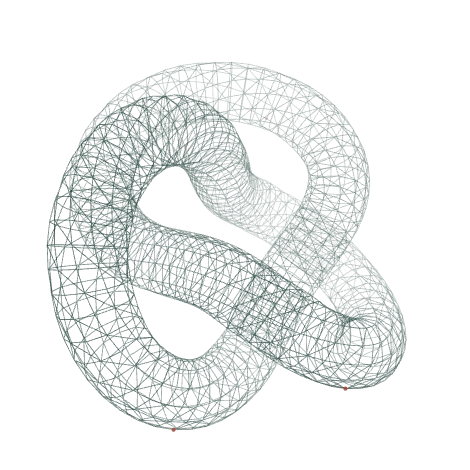
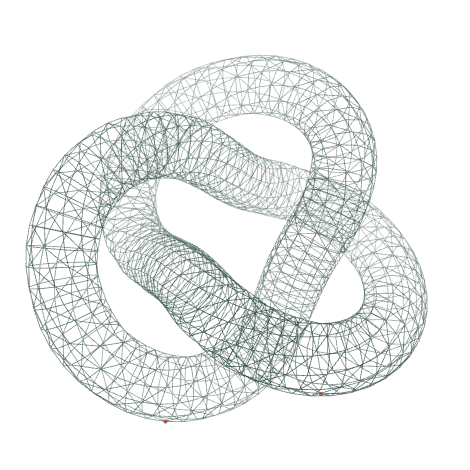
Clarify English-first navigation and balance hero motion

diff --git a/src/scripts/hero-scene.ts b/src/scripts/hero-scene.ts
@@ -67,7 +67,7 @@ function initScene(scene: HTMLElement) {
   let size = 0;
   let ink = '';
   let accent = '';
-  let angle = 0.36;
+  let angle = 0.15;
   let tilt = 0;
   let targetTilting = 0;
   let targetTurning = 0;
@@ -77,21 +77,21 @@ function initScene(scene: HTMLElement) {
 
   function draw() {
     if (!ctx || size === 0) return;
-    const sx = Math.sin(0.67 + tilt);
-    const cx = Math.cos(0.67 + tilt);
+    const sx = Math.sin(0.42 + tilt);
+    const cx = Math.cos(0.42 + tilt);
     const sy = Math.sin(angle + turn);
     const cy = Math.cos(angle + turn);
     const roll = 0.3;
     const cr = Math.cos(roll);
     const sr = Math.sin(roll);
-    const scale = size * 0.194;
+    const scale = size * 0.19;
 
     for (let i = 0; i < points.length; i++) {
       const [x, y, z] = points[i];
-      const a = x * cy + z * sy;
-      const b = z * cy - x * sy;
-      const c = y * cx - b * sx;
-      const d = y * sx + b * cx;
+      const a = x * cy - y * sy;
+      const b = x * sy + y * cy;
+      const c = b * cx - z * sx;
+      const d = b * sx + z * cx;
       const perspective = 7 / (7 - d);
       const point = projected[i];
       point[0] = size / 2 + (a * cr - c * sr) * scale * perspective;
@@ -115,7 +115,7 @@ function initScene(scene: HTMLElement) {
         ctx.moveTo(projected[from][0], projected[from][1]);
         ctx.lineTo(projected[to][0], projected[to][1]);
       }
-      ctx.globalAlpha = 0.12 + 0.67 * (i / (layers - 1)) ** 1.6;
+      ctx.globalAlpha = 0.17 + 0.73 * (i / (layers - 1)) ** 1.6;
       ctx.stroke();
     }
 
@@ -145,7 +145,7 @@ function initScene(scene: HTMLElement) {
 
   function animate(time: number) {
     if (time - lastDraw >= 32) {
-      angle += Math.min(time - lastDraw, 50) * 0.00032;
+      angle += Math.min(time - lastDraw, 50) * 0.00016;
       tilt += (targetTilting - tilt) * 0.085;
       turn += (targetTurning - turn) * 0.085;
       lastDraw = time;
@@ -180,8 +180,8 @@ function initScene(scene: HTMLElement) {
   canvas.addEventListener('pointermove', (event) => {
     if (paused || event.pointerType !== 'mouse') return;
     const bounds = canvas.getBoundingClientRect();
-    targetTilting = 0.55 * (event.clientY - bounds.top - bounds.height / 2) / bounds.height;
-    targetTurning = 0.8 * (event.clientX - bounds.left - bounds.width / 2) / bounds.width;
+    targetTilting = 0.3 * (event.clientY - bounds.top - bounds.height / 2) / bounds.height;
+    targetTurning = 0.45 * (event.clientX - bounds.left - bounds.width / 2) / bounds.width;
   });
   canvas.addEventListener('pointerleave', () => {
     targetTilting = 0;

diff --git a/src/styles/showcase.css b/src/styles/showcase.css
@@ -2,7 +2,7 @@
 :root {
   --header-height: 80px;
   --stage-paper: #efece2;
-  --stage-grid: rgb(22 54 46 / 7%);
+  --stage-grid: rgb(22 54 46 / 4.5%);
   --nav-paper: #f6f3e9;
   --nav-selected: #e6e3d8;
   --ease-out: cubic-bezier(.16, 1, .3, 1);
@@ -128,6 +128,26 @@
   height: 44px;
   border-color: transparent;
   background: transparent;
+}
+
+.language-options {
+  display: flex;
+  gap: 0.1rem;
+}
+
+.language-options .language-switch {
+  min-width: 38px;
+  width: 38px;
+  height: 44px;
+  padding-inline: 0.35rem;
+  border: 0;
+  color: var(--muted);
+  font-size: 0.75rem;
+}
+
+.language-options .language-switch[aria-current="page"] {
+  background: var(--ink);
+  color: var(--canvas);
 }
 
 .hero-stage {
@@ -1151,6 +1171,20 @@
   .language-switch {
     width: 39px;
     height: 44px;
+  }
+
+  .header-inner {
+    width: calc(100% - 1rem);
+    gap: 0.15rem;
+  }
+
+  .header-actions {
+    padding: 0.15rem;
+  }
+
+  .language-options .language-switch {
+    width: 33px;
+    min-width: 33px;
   }
 }
 

diff --git a/DESIGN.md b/DESIGN.md
@@ -35,7 +35,8 @@ An editorial, warm technical portfolio for a job candidate. It should feel credi
 
 ## Interaction and accessibility
 
-- English/Spanish switch routes between `/` and `/es/`; theme preference is optional and keyboard operable.
+- English is the default at `/`. Show English first in the EN/ES control and mark the current language. Spanish remains available at `/es/`, and the header signature returns to the English home.
+- Keep the trefoil rotation in its broad plane with restrained pointer tilt, so its silhouette stays balanced alongside the introduction. Use the same initial pose for its static fallback.
 - Skill filters are native buttons, expose the active state, and update a concise usage example.
 - Use short CSS transitions, visible focus rings, WCAG AA text contrast, and a reduced-motion fallback.
 - Use one entrance for the opening copy and brief, one-time reveals for project previews, experience entries and the contact panel. They remain visible with JavaScript unavailable or reduced motion enabled.
